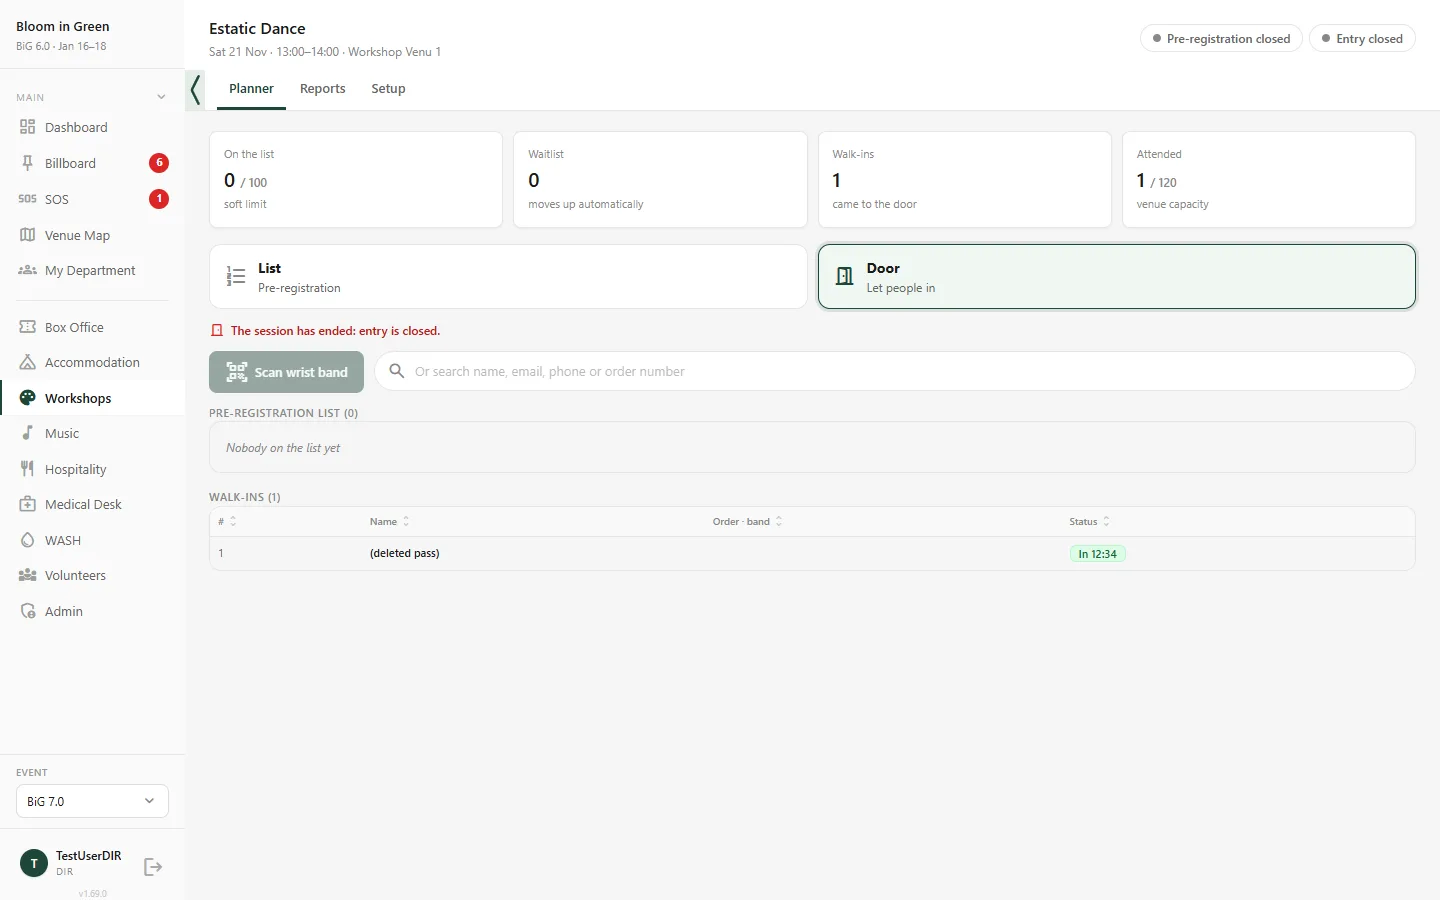
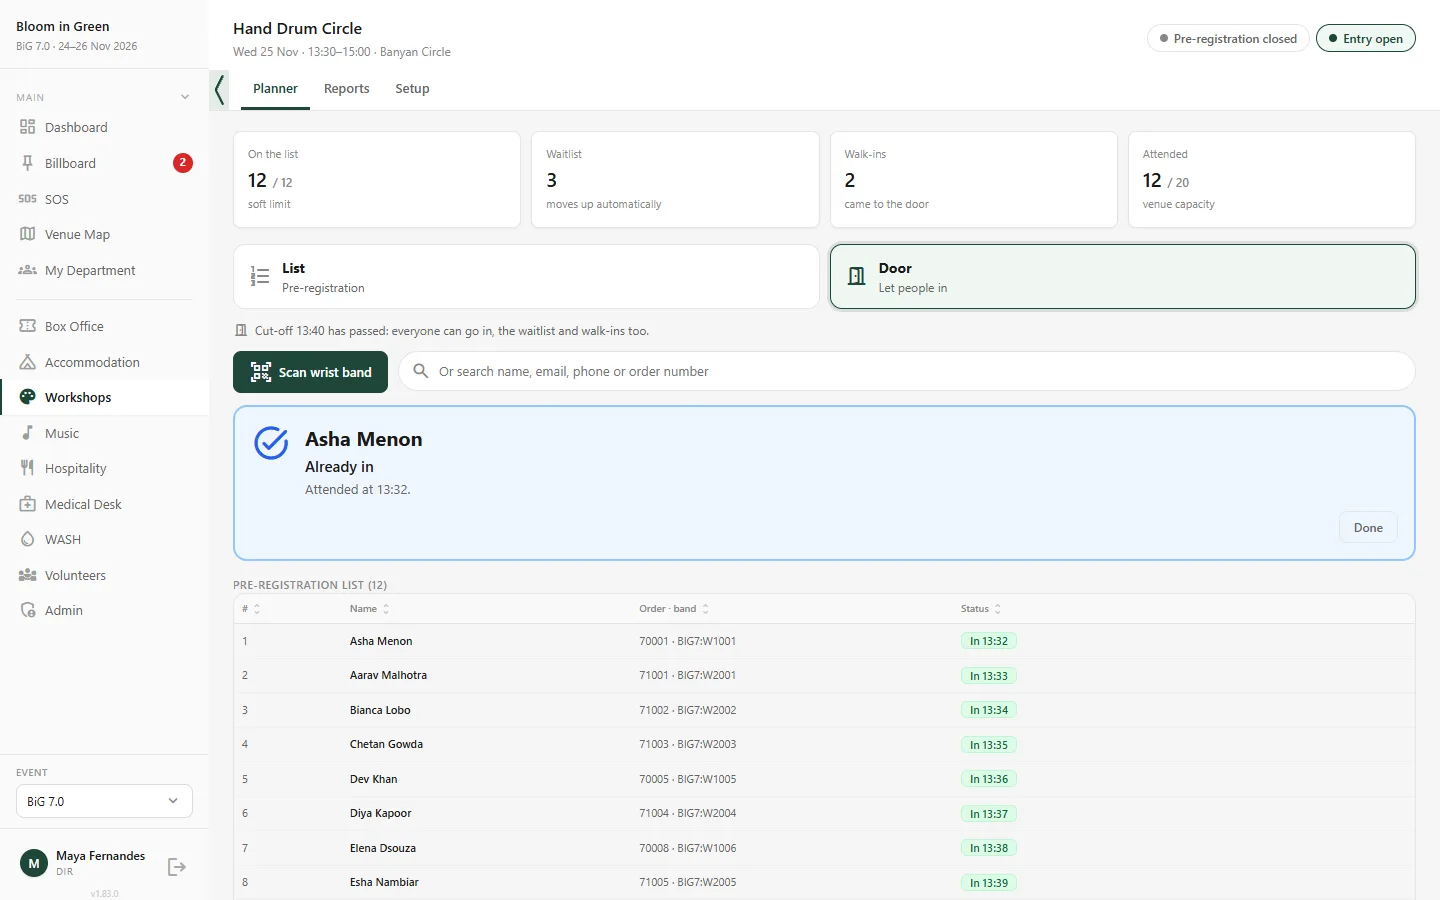
Guide: daytime re-shoot of Hospitality and Workshops, stay panel figure
- 10 desktop screenshots re-shot in daytime (Hospitality Today, Serving desk,
  Report, Stay; Workshops Planner, Session, Lists, Door, Reports, Reports panel)
- New figure in chapter 10: a person's stay panel (All their stays)
- Workshops Planner and Reports figures now desktop only (phone shots outdated)
- 2026-11-25 update-log entry extended

diff --git a/guide/project/data.js b/guide/project/data.js
@@ -797,7 +797,7 @@ window.GUIDE = {
 
   /* Appendix D — document history (newest first) */
   docHistory: [
-    { date: "2026-11-25", through: "Frontend 1.83.0 · Backend 1.71.0", text: "Rewrote Box Office around a booking's journey: bookings from the online sales system (live updates, Pull, Check & repair, file import), the Sales Sync Report, Booking IDs and linked bookings, the Festival details and Beds checks, the pass type filter and Selected only, and Early Check-In with its email and the buyer's form. Tent Pass is now Stay Pass throughout, with beds needed in Accommodation Setup. Added Start here and Words you'll see to the Introduction, Helpdesk pins and the public map's roads and fences, All their stays in Hospitality › Stay, sign-in and form messages, Music screenshots, an Early Check-In dry run, limitations, roadmap items, glossary terms and releases. Removed the test-count figure. Re-shot desktop screenshots from the test environment with invented data." },
+    { date: "2026-11-25", through: "Frontend 1.83.0 · Backend 1.71.0", text: "Rewrote Box Office around a booking's journey: bookings from the online sales system (live updates, Pull, Check & repair, file import), the Sales Sync Report, Booking IDs and linked bookings, the Festival details and Beds checks, the pass type filter and Selected only, and Early Check-In with its email and the buyer's form. Tent Pass is now Stay Pass throughout, with beds needed in Accommodation Setup. Added Start here and Words you'll see to the Introduction, Helpdesk pins and the public map's roads and fences, All their stays in Hospitality › Stay, sign-in and form messages, Music screenshots, an Early Check-In dry run, limitations, roadmap items, glossary terms and releases. Removed the test-count figure. Re-shot desktop screenshots from the test environment with invented data. Daytime re-shoot of Hospitality and Workshops screens; added the stay panel screenshot." },
     { date: "2026-11-21", through: "Frontend 1.69.0 · Backend 1.60.0", text: "Added chapter 9 Music (Setup, Planner, clashes, music on the map and the public page); later chapters renumbered 10–20. Added joining time with Expected and Reported, My Department's redesign with member details and roles, the Volunteers List with its new columns, date and Team Leads, Stay's new tabs, night table and dates, the Serving desk's Expected list, the kitchen-count check, sorting in every table, the Departments panel details, tent passes with several beds, the Medical Bay switch, and the public page's live map and new Home. Added module tiles, role-matrix rows, limitations, roadmap items, glossary terms, releases, a Music dry run and a 3-bed tent pass in the Booking Found and Inventory demos. Re-shot screenshots from the test environment (sample data) and added screenshots for the Dashboard, Accommodation › Fields, WASH, Volunteers and Deposits. Re-shot panels, dialogs and session pages on desktop." },
     { date: "2026-11-15", through: "Frontend 1.60.0 · Backend 1.52.0", text: "Added three chapters: 10 Medical Desk, 11 WASH and 12 Volunteers (board, volunteers needed, profiles, deposits, location on request, adding volunteers); later chapters renumbered. Added the new Dashboard, section tabs, Tent Fields with Pick on field, Accommodation's own access, built-in access keys, the Box Office access by task, Hospitality's Expected and Who's counted lists, the Helpdesk and shared Tasks with a place on the map, and new Venue Map statuses. Added module tiles, role-matrix rows, limitations, roadmap items, glossary terms and the releases up to Frontend 1.60.0 and Backend 1.52.0. Added dry runs for the Medical Desk, WASH, Volunteers and Tasks." },
     { date: "2026-11-06", through: "Frontend 1.45.1 · Backend 1.37.0", text: "Added chapter 16, Dry run: one happy path per area: one walk-through each for setting up people and the event, Box Office, Workshops, Hospitality, Venue Map, the Public Page, SOS, Billboard and Announcements, with what to prepare, the steps, checks to try and phone screenshots of sample data." },

diff --git a/guide/index.html b/guide/index.html
@@ -846,7 +846,7 @@
         <li><b>Now</b> is always there. It shows the sessions running now, then the rest of today in order, scrolling sideways, with the same status words as the Venue Map. When nothing is left, it says "Nothing else today". Tapping a session opens it.</li>
         <li>A red line marks the current time across every venue on today's calendar. The Planner refreshes once a minute while it's open.</li>
       </ul>
-      <figure class="shot" data-shot="workshop-planner" data-caption="Workshops › Planner: venues as columns, one tab per day, the Now row and the current-time line (sample workshops)"></figure>
+      <figure class="shot" data-shot="workshop-planner" data-views="desktop" data-caption="Workshops › Planner: venues as columns, one tab per day, the Now row and the current-time line (sample workshops)"></figure>
       <figure class="shot" data-shot="workshop-session" data-views="desktop" data-caption="A session's panel: the pre-registration and entry switches, its numbers and Open lists &amp; door"></figure>
 
       <h3 id="workshop-door">Lists and the door <span class="badge muted">Workshop team</span></h3>
@@ -881,7 +881,7 @@
       <h3 id="workshop-reports">Reports <span class="badge muted">Workshop team</span></h3>
       <p><b>Workshops › Reports</b> opens with totals: <b>Sessions</b>, <b>On the lists</b> (and how many are waitlisted), <b>Attended</b> (and how many came as walk-ins) and <b>No-shows</b>. Switch between <b>By session</b> and <b>By workshop</b>, with a turnout bar on each row, and search by workshop, venue or day. Tapping a row lists everyone on its lists, and whether and when they came. <b>Export to Excel</b> downloads Sessions, Workshops and People sheets.</p>
       <p>A no-show is someone who was on the list and hadn't come by the end of the session. They're counted once the session has ended.</p>
-      <figure class="shot" data-shot="workshop-reports" data-caption="Workshops › Reports: totals and turnout per session"></figure>
+      <figure class="shot" data-shot="workshop-reports" data-views="desktop" data-caption="Workshops › Reports: totals and turnout per session"></figure>
       <figure class="shot" data-shot="workshop-reports-panel" data-views="desktop" data-caption="Tapping a session shows who came and who didn't"></figure>
     </section>
 
@@ -1076,6 +1076,8 @@
       </ul>
 
       <figure class="shot" data-shot="hospitality-stay" data-caption="Hospitality › Stay: counts for a night and the Allocate night table (sample staff and guests)"></figure>
+
+      <figure class="shot" data-shot="hospitality-stay-panel" data-views="desktop" data-caption="A person's stay panel: this night's unit, Moved in / Moved out, and All their stays as a timeline (sample staff)"></figure>
 
       <h3 id="hospitality-bands">Staff wrist bands</h3>
       <p>A wrist band can belong to a staff member as well as to a Festival Pass. Each person gets one band per event, and a band is never reused. At the Serving desk, a staff band works like the person's meal QR.</p>
